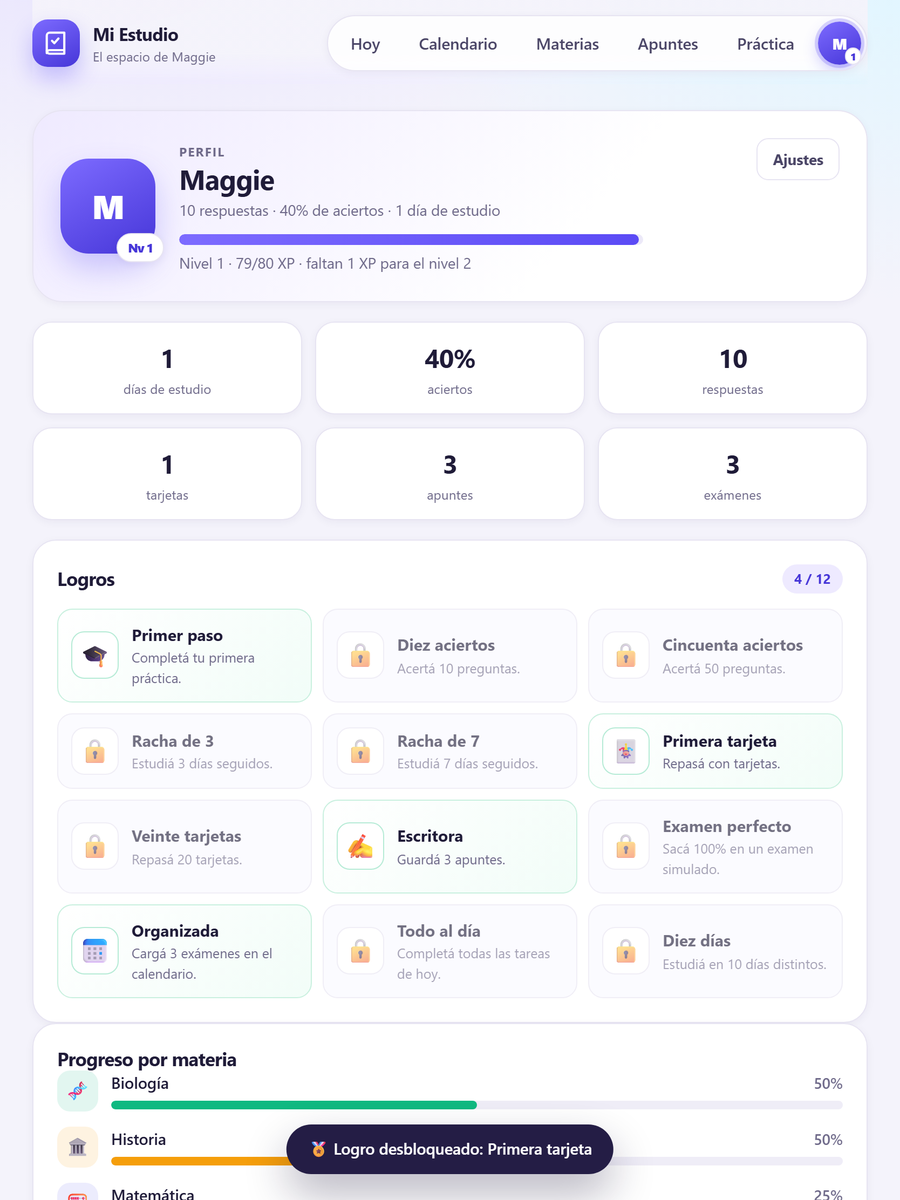
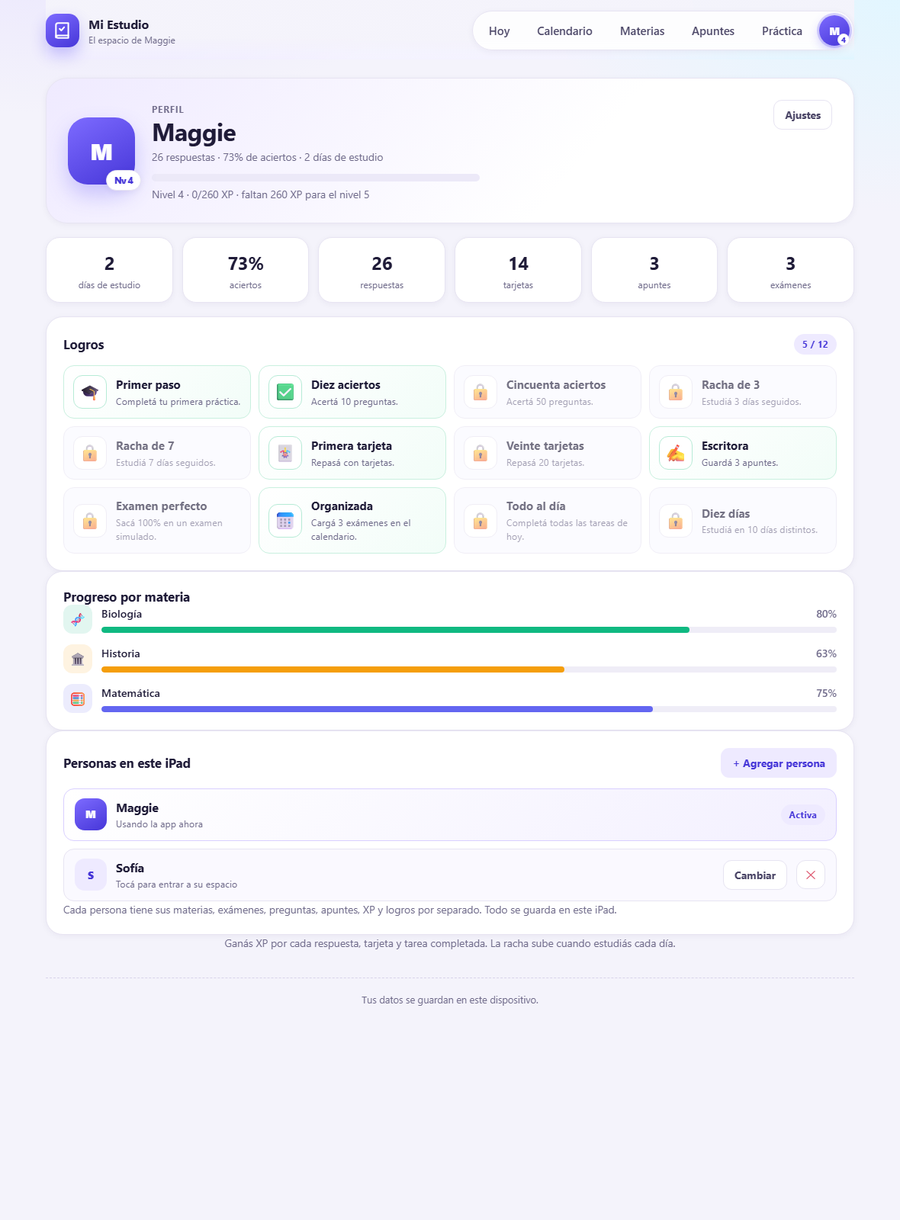
Perfiles por persona: cada uno con sus datos y progreso separados

diff --git a/js/store.js b/js/store.js
@@ -3,9 +3,136 @@ import { seedState } from './seed.js';
 import { addDays, diffDays, todayISO } from './dates.js';
 
 const KEY = 'miEstudio.v1';
+const REGISTRY_KEY = 'miEstudio.profiles';
+const STATE_KEY = (id) => `miEstudio.v1.${id}`;
 const listeners = new Set();
 
 let state = null;
+
+function newProfileId() {
+  return `p${Date.now().toString(36)}${Math.random().toString(36).slice(2, 5)}`;
+}
+
+function readJSON(key, fallback = null) {
+  try {
+    const raw = localStorage.getItem(key);
+    return raw ? JSON.parse(raw) : fallback;
+  } catch {
+    return fallback;
+  }
+}
+
+function writeRegistry(registry) {
+  localStorage.setItem(REGISTRY_KEY, JSON.stringify(registry));
+}
+
+/**
+ * Lista de personas (perfiles) guardadas en este dispositivo.
+ * Si venía la versión de un solo perfil, la migra al primero.
+ */
+export function ensureRegistry() {
+  let registry = readJSON(REGISTRY_KEY, null);
+  const valid = registry && Array.isArray(registry.profiles) && registry.profiles.length > 0;
+  if (!valid) {
+    const legacy = readJSON(KEY, null);
+    const id = newProfileId();
+    const name = String((legacy && legacy.student) || '').trim() || 'Estudiante';
+    registry = { profiles: [{ id, name }], active: id };
+    if (legacy) localStorage.setItem(STATE_KEY(id), JSON.stringify(legacy));
+    writeRegistry(registry);
+    if (legacy) localStorage.removeItem(KEY);
+  }
+  if (!registry.profiles.some((p) => p.id === registry.active)) {
+    registry.active = registry.profiles[0].id;
+    writeRegistry(registry);
+  }
+  return registry;
+}
+
+export function listProfiles() {
+  return ensureRegistry().profiles;
+}
+
+export function activeProfileId() {
+  return ensureRegistry().active;
+}
+
+export function activeProfile() {
+  const registry = ensureRegistry();
+  return registry.profiles.find((p) => p.id === registry.active) || registry.profiles[0];
+}
+
+export function profileNameOf(id) {
+  const profile = listProfiles().find((p) => p.id === id);
+  return profile ? profile.name : 'Estudiante';
+}
+
+export function switchProfile(id) {
+  const registry = ensureRegistry();
+  if (!registry.profiles.some((p) => p.id === id)) return null;
+  registry.active = id;
+  writeRegistry(registry);
+  const raw = readJSON(STATE_KEY(id), null);
+  state = raw ? migrate(raw) : seedState();
+  save();
+  notify();
+  return activeProfile();
+}
+
+export function createProfile(name) {
+  const registry = ensureRegistry();
+  const clean = String(name || '').trim().slice(0, 40) || 'Estudiante';
+  const id = newProfileId();
+  registry.profiles.push({ id, name: clean });
+  registry.active = id;
+  writeRegistry(registry);
+
+  const base = seedState();
+  state = {
+    ...base,
+    student: clean,
+    subjects: [],
+    exams: [],
+    questions: [],
+    notes: [],
+    attempts: [],
+    planDone: {},
+    daysStudied: [],
+    xp: 0,
+    cardsSeen: 0,
+    settings: { showDemo: false, onboarded: true },
+  };
+  save();
+  notify();
+  return id;
+}
+
+export function renameProfile(id, name) {
+  const registry = ensureRegistry();
+  const profile = registry.profiles.find((p) => p.id === id);
+  if (!profile) return;
+  profile.name = String(name || '').trim().slice(0, 40) || 'Estudiante';
+  writeRegistry(registry);
+}
+
+export function deleteProfile(id) {
+  const registry = ensureRegistry();
+  if (registry.profiles.length <= 1) return false;
+  const removingActive = registry.active === id;
+  registry.profiles = registry.profiles.filter((p) => p.id !== id);
+  if (!registry.profiles.some((p) => p.id === registry.active)) {
+    registry.active = registry.profiles[0].id;
+  }
+  writeRegistry(registry);
+  localStorage.removeItem(STATE_KEY(id));
+  if (removingActive) {
+    const raw = readJSON(STATE_KEY(registry.active), null);
+    state = raw ? migrate(raw) : seedState();
+    save();
+    notify();
+  }
+  return true;
+}
 
 function migrate(raw) {
   const base = seedState();
@@ -25,8 +152,10 @@ function migrate(raw) {
 
 export function load() {
   try {
-    const raw = localStorage.getItem(KEY);
-    state = raw ? migrate(JSON.parse(raw)) : seedState();
+    const registry = ensureRegistry();
+    const raw = readJSON(STATE_KEY(registry.active), null);
+    state = raw ? migrate(raw) : seedState();
+    if (!raw) save();
   } catch (err) {
     console.warn('No se pudo leer el guardado, arranco con datos de ejemplo.', err);
     state = seedState();
@@ -40,7 +169,8 @@ export function getState() {
 
 export function save() {
   try {
-    localStorage.setItem(KEY, JSON.stringify(state));
+    const registry = ensureRegistry();
+    localStorage.setItem(STATE_KEY(registry.active), JSON.stringify(state));
   } catch (err) {
     console.warn('No se pudo guardar', err);
     throw err;

diff --git a/js/views.js b/js/views.js
@@ -5,8 +5,8 @@ import {
   monthLabel, monthMatrix, relativeLabel, todayISO, WEEKDAYS_SHORT,
 } from './dates.js';
 import {
-  achievements, examsSorted, levelInfo, masteryOf, notesOf, notesSorted, pastExams,
-  questionsOf, streak, studyPlan, studyStats,
+  achievements, activeProfileId, examsSorted, levelInfo, listProfiles, masteryOf, notesOf,
+  notesSorted, pastExams, questionsOf, streak, studyPlan, studyStats,
   subjectById, subjectsSorted, tasksForDate, upcomingExams, wrongQuestions,
 } from './store.js';
 import { gradeMessage, cardSummary } from './quiz.js';
@@ -896,6 +896,8 @@ export function renderPerfil(state, { today }) {
   const unlocked = badges.filter((b) => b.done).length;
   const subjects = subjectsSorted(state).filter((s) => questionsOf(s.id, state).length);
   const xpToNext = level.need - level.inLevel;
+  const profiles = listProfiles();
+  const activeId = activeProfileId();
 
   return `
     <section class="profile-head">
@@ -963,8 +965,52 @@ export function renderPerfil(state, { today }) {
         </ul>
       </section>` : ''}
 
+    <section class="card">
+      <div class="card-head">
+        <h2 class="card-title">Personas en este iPad</h2>
+        <button type="button" class="btn btn-soft btn-small" data-action="add-profile">+ Agregar persona</button>
+      </div>
+      <ul class="profile-list">
+        ${profiles.map((profile) => `
+          <li class="profile-row ${profile.id === activeId ? 'is-active' : ''}">
+            <span class="profile-mini">${esc(initials(profile.name))}</span>
+            <div class="profile-row-copy">
+              <strong>${esc(profile.name)}</strong>
+              <small>${profile.id === activeId ? 'Usando la app ahora' : 'Tocá para entrar a su espacio'}</small>
+            </div>
+            ${profile.id === activeId
+              ? '<span class="pill">Activa</span>'
+              : `<button type="button" class="btn btn-plain btn-small" data-action="switch-profile" data-id="${esc(profile.id)}">Cambiar</button>
+                 <button type="button" class="icon-btn danger" data-action="delete-profile" data-id="${esc(profile.id)}" aria-label="Borrar a ${esc(profile.name)}">✕</button>`}
+          </li>`).join('')}
+      </ul>
+      <p class="muted small">Cada persona tiene sus materias, exámenes, preguntas, apuntes, XP y logros por separado. Todo se guarda en este iPad.</p>
+    </section>
+
     <p class="muted small center">Ganás XP por cada respuesta, tarjeta y tarea completada. La racha sube cuando estudiás cada día.</p>
   `;
+}
+
+export function renderProfileForm() {
+  return `
+    <div class="modal-head">
+      <div>
+        <p class="eyebrow">Nueva</p>
+        <h2>Agregar persona</h2>
+      </div>
+      <button type="button" class="icon-btn" data-action="close-modal" aria-label="Cerrar">✕</button>
+    </div>
+    <form class="form" data-form="profile">
+      <label class="field">
+        <span>¿Cómo se llama?</span>
+        <input type="text" name="name" placeholder="Nombre" maxlength="40" required autocomplete="given-name">
+      </label>
+      <p class="muted small">Arranca con su espacio vacío: sus propias materias, exámenes, apuntes y progreso. Podés cambiar de persona cuando quieras desde el perfil.</p>
+      <div class="modal-foot">
+        <button type="button" class="btn btn-plain" data-action="close-modal">Cancelar</button>
+        <button type="submit" class="btn btn-primary">Crear persona</button>
+      </div>
+    </form>`;
 }
 
 /* =========================== AJUSTES =========================== */

diff --git a/app.js b/app.js
@@ -2,6 +2,7 @@
 import {
   getState, load, replaceState, subscribe, subjectById,
   update, uid, exportJSON, achievements, addXp, levelInfo,
+  activeProfile, activeProfileId, createProfile, deleteProfile, renameProfile, switchProfile,
 } from './js/store.js';
 import { addDays, buildICS, fmtLong, todayISO, diffDays } from './js/dates.js';
 import {
@@ -128,6 +129,9 @@ function showModal(kind, payload = {}) {
   } else if (kind === 'note-view') {
     html = views.renderNoteView(current, payload.note);
     label = 'Apunte';
+  } else if (kind === 'profile') {
+    html = views.renderProfileForm();
+    label = 'Agregar persona';
   } else if (kind === 'onboarding') {
     html = views.renderOnboarding();
     label = 'Bienvenida';
@@ -481,6 +485,41 @@ document.addEventListener('click', (event) => {
       noteFilter = el.dataset.subject || '';
       render();
       return;
+    case 'add-profile':
+      showModal('profile');
+      return;
+    case 'switch-profile': {
+      const profile = switchProfile(el.dataset.id);
+      if (!profile) return;
+      quizSession = null;
+      cardsSession = null;
+      knownBadges = null;
+      closeModal();
+      go({ view: 'hoy' });
+      toast(`Ahora usa la app ${profile.name}`);
+      return;
+    }
+    case 'delete-profile':
+      showModal('confirm', {
+        title: '¿Borrar a esta persona?',
+        text: 'Se borran sus materias, exámenes, preguntas, apuntes y todo su progreso de este iPad. No se puede deshacer.',
+        confirmLabel: 'Borrar persona',
+        action: 'confirm-delete-profile',
+        id: el.dataset.id,
+      });
+      return;
+    case 'confirm-delete-profile': {
+      const removed = deleteProfile(el.dataset.id);
+      closeModal();
+      if (removed) {
+        knownBadges = null;
+        toast('Persona borrada');
+        render();
+      } else {
+        toast('Tiene que quedar al menos una persona', 'warn');
+      }
+      return;
+    }
     case 'toggle-task': {
       const key = el.dataset.key;
       const done = el.dataset.done === '1';
@@ -685,14 +724,29 @@ document.addEventListener('submit', (event) => {
   if (kind === 'name') {
     const student = String(data.get('student') || '').trim();
     update((s) => { s.student = student; });
+    renameProfile(activeProfileId(), student);
     toast('Guardado');
     render();
+    return;
+  }
+
+  if (kind === 'profile') {
+    const name = String(data.get('name') || '').trim();
+    if (!name) { toast('Poné un nombre', 'warn'); return; }
+    createProfile(name);
+    quizSession = null;
+    cardsSession = null;
+    knownBadges = null;
+    closeModal();
+    go({ view: 'hoy' });
+    toast(`¡Hola, ${name}!`);
     return;
   }
 
   if (kind === 'onboarding') {
     const student = String(data.get('student') || '').trim();
     update((s) => { s.student = student; s.settings.onboarded = true; });
+    if (student) renameProfile(activeProfileId(), student);
     closeModal();
     toast(`¡Bienvenida${student ? ', ' + student : ''}!`);
     render();

diff --git a/styles.css b/styles.css
@@ -1220,6 +1220,34 @@ input, textarea, select, button { font-family: inherit; }
 .badge-copy strong { font-size: 0.94rem; }
 .badge-copy span { font-size: 0.78rem; color: var(--muted); }
 
+.profile-list { display: flex; flex-direction: column; gap: 10px; }
+.profile-row {
+  display: flex;
+  align-items: center;
+  gap: 12px;
+  padding: 12px 14px;
+  border-radius: 14px;
+  border: 1px solid var(--line);
+  background: var(--surface-2);
+}
+.profile-row.is-active { background: linear-gradient(135deg, #ffffff, #f3f0ff); border-color: #d9d0ff; }
+.profile-mini {
+  display: grid;
+  place-items: center;
+  width: 42px;
+  height: 42px;
+  border-radius: 13px;
+  background: var(--primary-soft);
+  color: var(--primary-dark);
+  font-weight: 800;
+  font-size: 0.9rem;
+  flex: none;
+}
+.profile-row.is-active .profile-mini { background: linear-gradient(150deg, #7d6bff, #4636d8); color: #fff; }
+.profile-row-copy { display: flex; flex-direction: column; gap: 1px; min-width: 0; flex: 1; }
+.profile-row-copy strong { font-size: 0.98rem; }
+.profile-row-copy small { font-size: 0.78rem; color: var(--muted); }
+
 /* ----------------------- Apuntes y tarjetas ----------------------- */
 
 .grid-3 {

diff --git a/sw.js b/sw.js
@@ -1,5 +1,5 @@
 /* Service worker: deja la app disponible sin internet. */
-const CACHE = 'mi-estudio-v3';
+const CACHE = 'mi-estudio-v4';
 const ASSETS = [
   './',
   './index.html',

diff --git a/README.md b/README.md
@@ -25,7 +25,7 @@ Hecha para usarse en familia: Maggie (o quien la use) carga sus materias, exáme
 | **Materias** | Cada materia con sus preguntas, exámenes y apuntes, más el porcentaje de aciertos. |
 | **Apuntes** | Resúmenes por materia, con buscador y filtro. |
 | **Práctica** | Examen simulado (10 preguntas mezcladas), tarjetas de estudio y “repasar las que fallé”. |
-| **Perfil** | Nivel, XP, racha, estadísticas y 12 logros para desbloquear (estilo Knowunity). |
+| **Perfil** | Nivel, XP, racha, estadísticas, 12 logros y las personas que usan la app (estilo Knowunity). |
 | **Ajustes** | Nombre, backup, importar, exportar exámenes al Calendario del iPad y borrar datos. |
 
 Extras:
@@ -116,10 +116,22 @@ Si más adelante querés notificaciones push reales, hace falta un servidor (y e
 
 ---
 
+## Varias personas en el mismo iPad
+
+La app guarda **un espacio separado por persona**. Cada una tiene sus propias materias, exámenes, preguntas, apuntes, XP, racha y logros; nada se mezcla.
+
+- **Agregar**: Perfil → *+ Agregar persona* → nombre. Arranca con su espacio vacío.
+- **Cambiar**: Perfil → *Cambiar* al lado del nombre. Vuelve a “Hoy” con los datos de esa persona.
+- **Borrar**: Perfil → ✕ (solo se pueden borrar las personas que no están activas; siempre queda al menos una).
+
+Todo queda en el iPad, en almacenamiento separado por persona dentro del navegador.
+
+---
+
 ## Datos, backup y privacidad
 
-- Todo se guarda en el **dispositivo** (localStorage). No hay cuentas, servidores ni analytics: nada sale del iPad.
-- **Ajustes → Descargar backup (.json)** guarda un archivo con todo. **Importar backup** lo restaura (sirve para pasar de un dispositivo a otro).
+- Todo se guarda en el **dispositivo** (localStorage), separado por persona. No hay cuentas, servidores ni analytics: nada sale del iPad.
+- **Ajustes → Descargar backup (.json)** guarda un archivo con **la persona activa**. **Importar backup** lo restaura en la persona activa (sirve para pasar de un dispositivo a otro).
 - Si borrás datos del navegador o desinstalás la app, se pierde lo que no esté respaldado.
 
 ---
